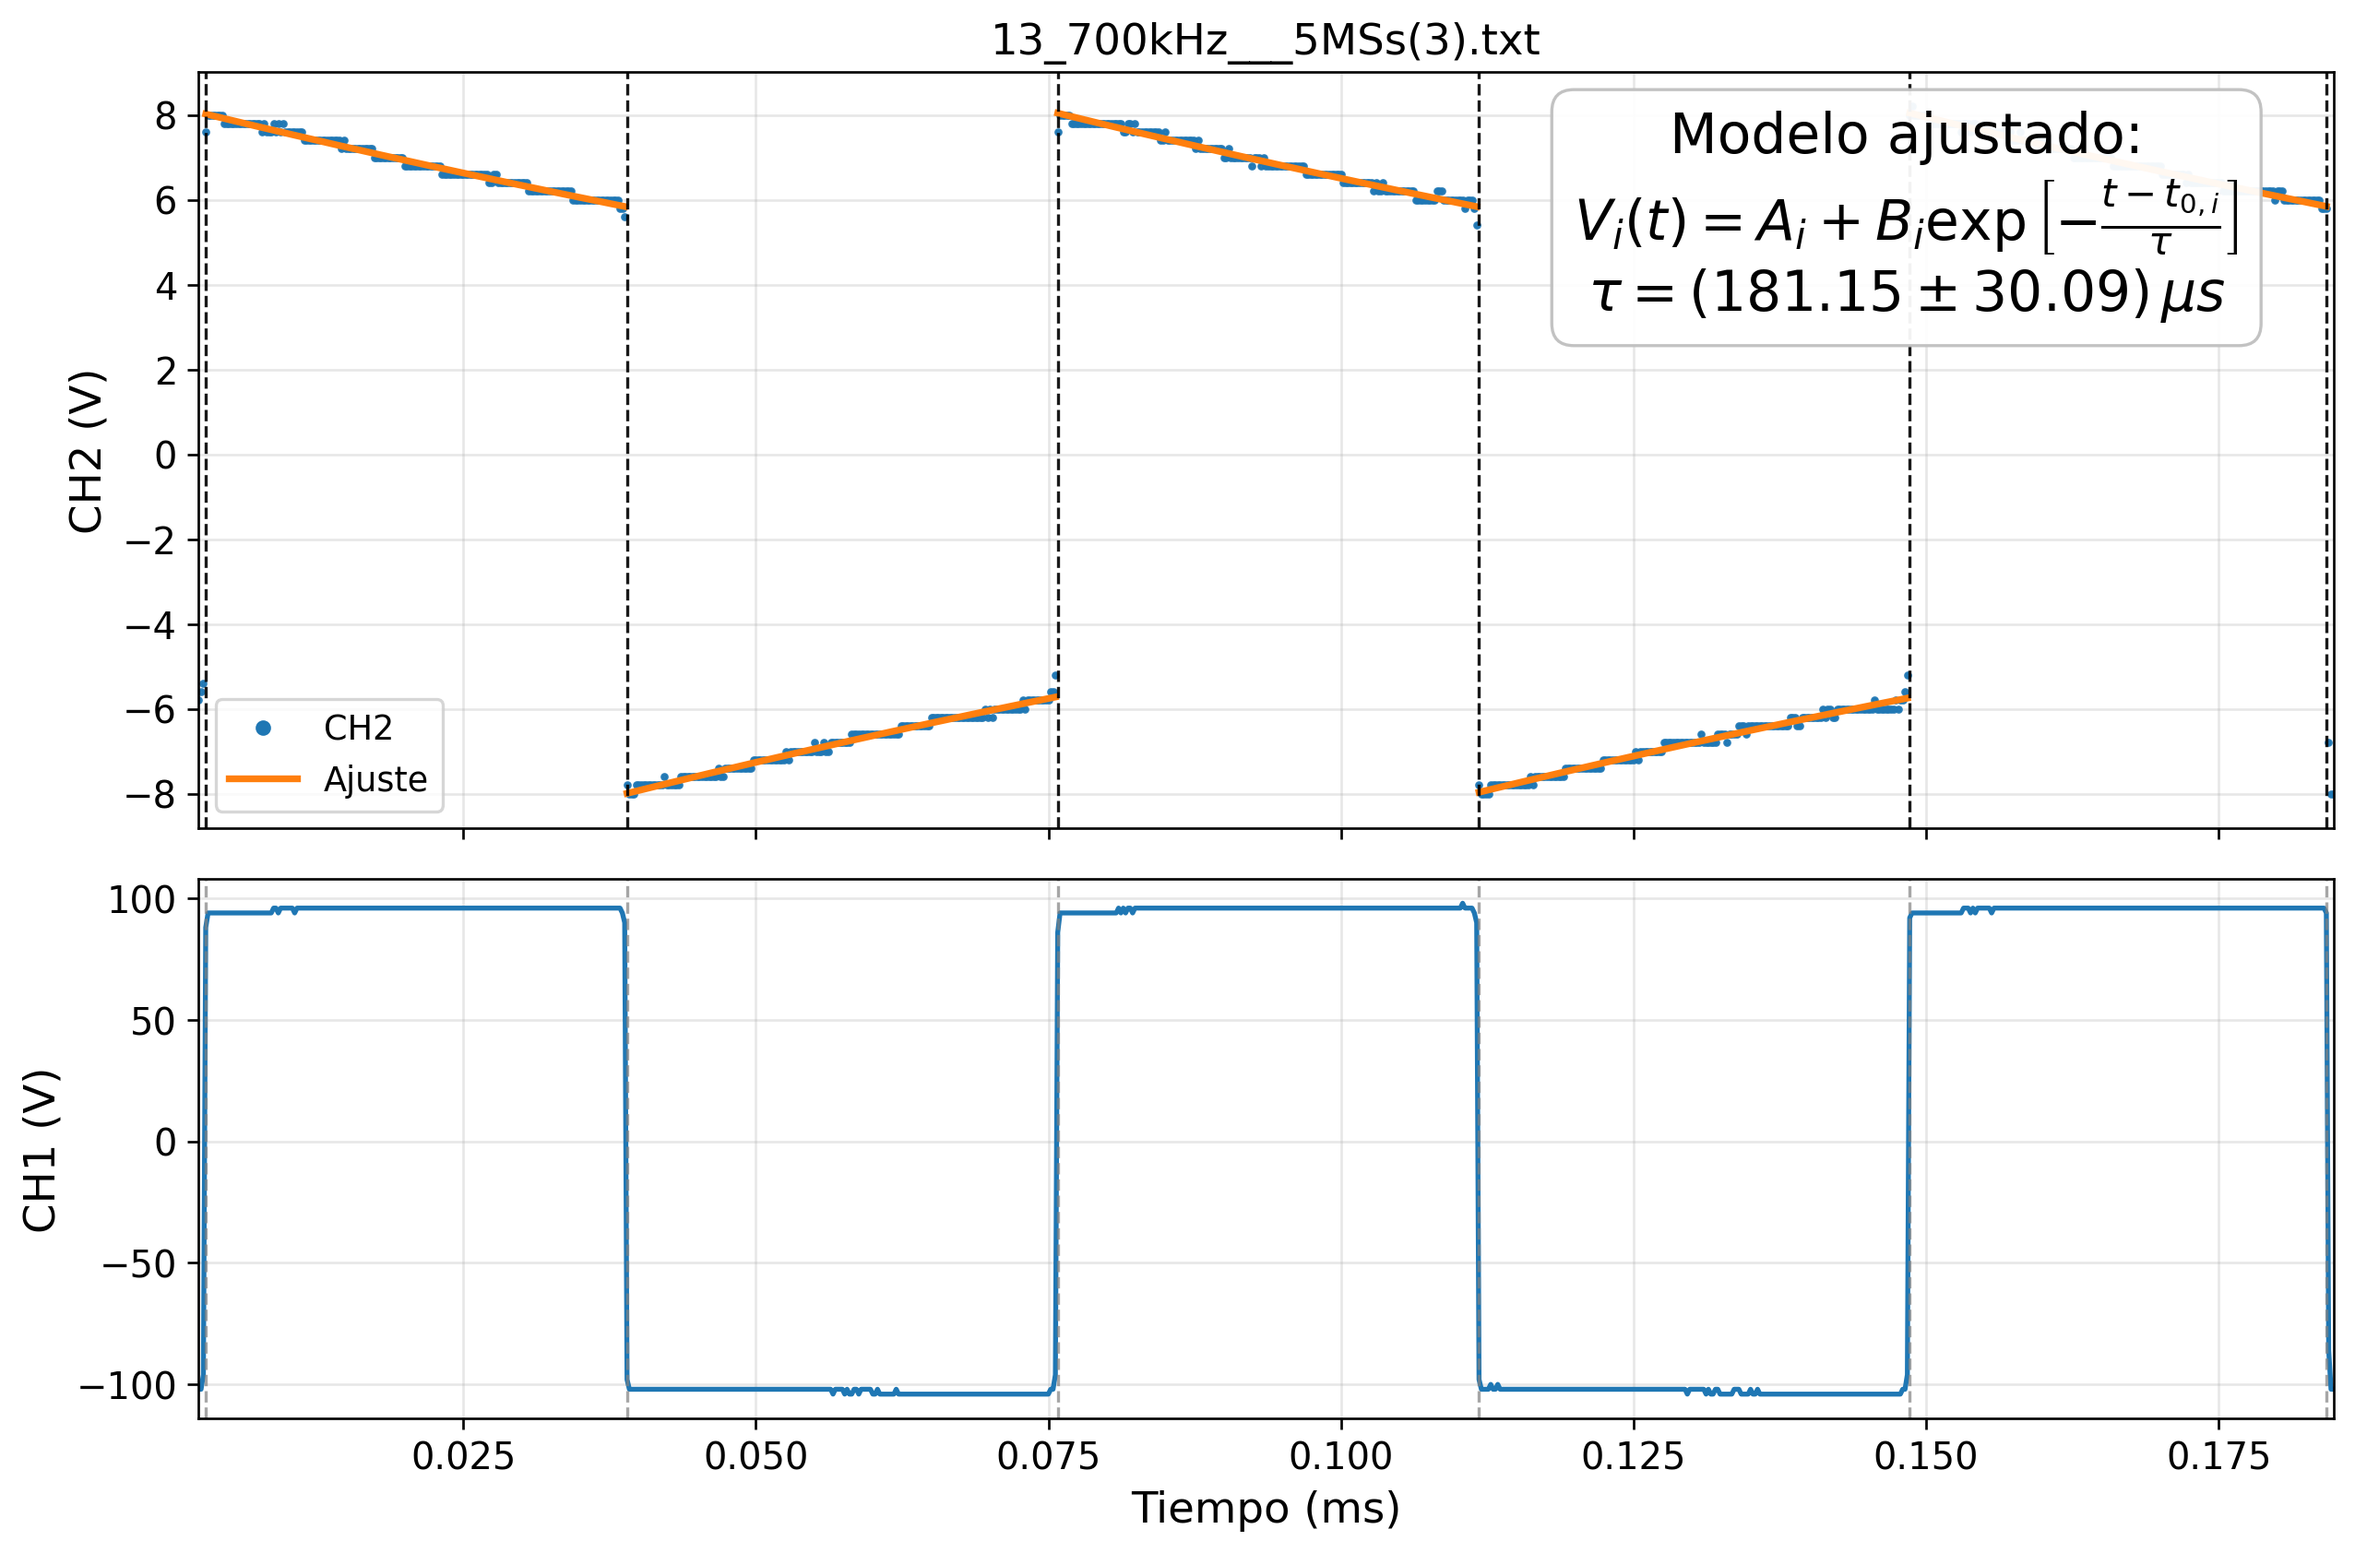
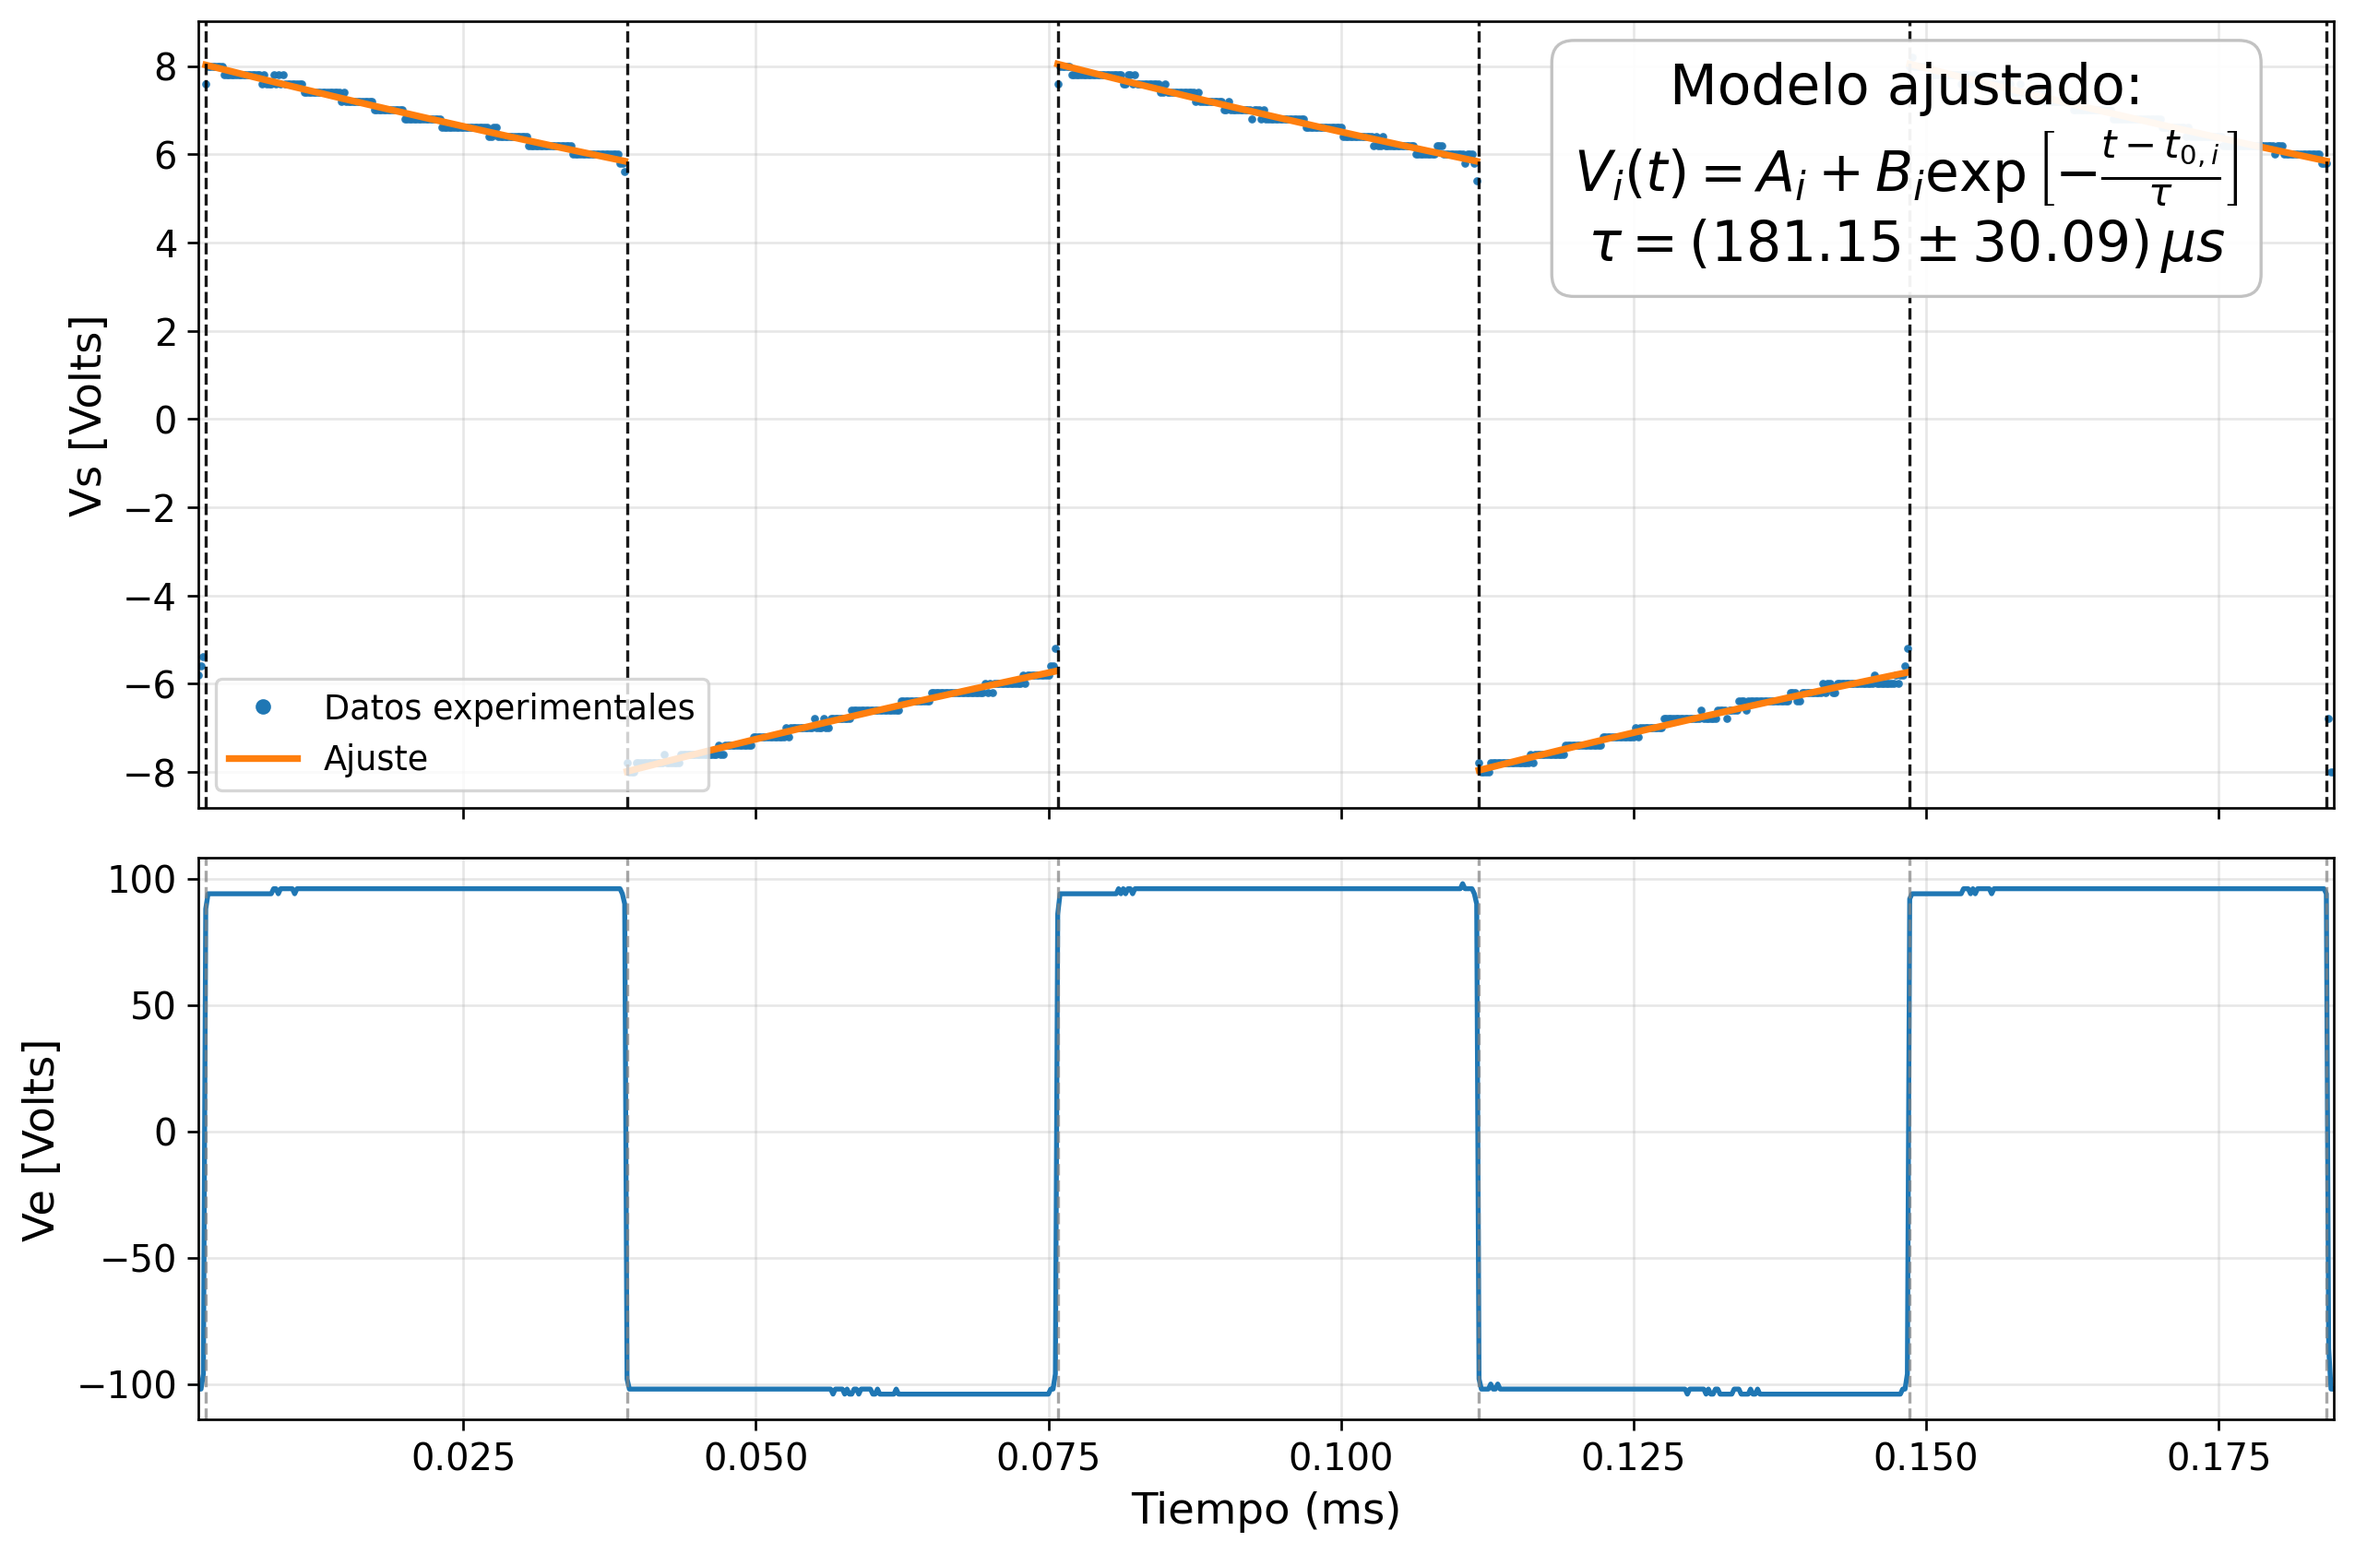
Mejoras a los graficos

diff --git a/Experimento V, Cajita Feliz/Codigo/funcionesCuadradas.py b/Experimento V, Cajita Feliz/Codigo/funcionesCuadradas.py
@@ -1055,7 +1055,7 @@ def graficar_ajuste_presentacion(
             linestyle="None",
             markersize=8,
             color="tab:blue",
-            label="CH2",
+            label="Datos experimentales",
         ),
         Line2D(
             [0], [0],
@@ -1066,8 +1066,8 @@ def graficar_ajuste_presentacion(
         ),
     ]
 
-    ax_ch2.set_ylabel("CH2 (V)")
-    ax_ch2.set_title(nombre_archivo)
+    ax_ch2.set_ylabel("Vs [Volts]")
+    
     ax_ch2.grid(True, alpha=0.30)
     ax_ch2.legend(
         handles=leyenda_personalizada,
@@ -1097,7 +1097,7 @@ def graficar_ajuste_presentacion(
 
     ax_ch1.set_xlim(t_min * 1e3, t_max * 1e3)
     ax_ch1.set_xlabel("Tiempo (ms)")
-    ax_ch1.set_ylabel("CH1 (V)")
+    ax_ch1.set_ylabel("Ve [Volts]")
     ax_ch1.grid(True, alpha=0.30)
 
     figura.tight_layout()
